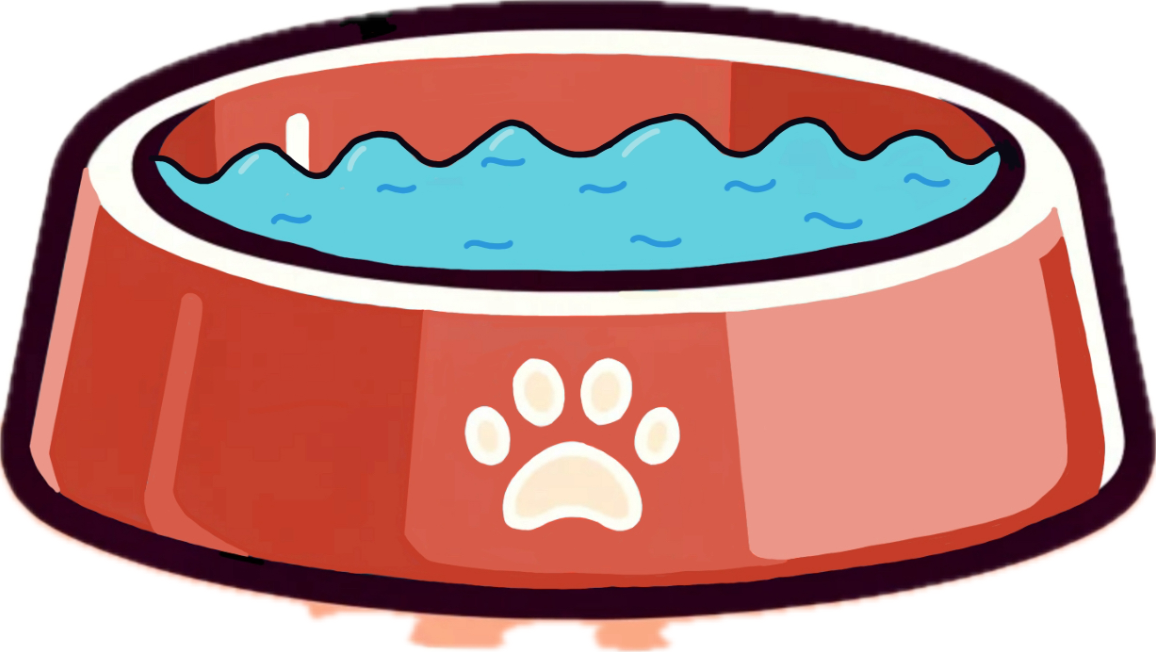
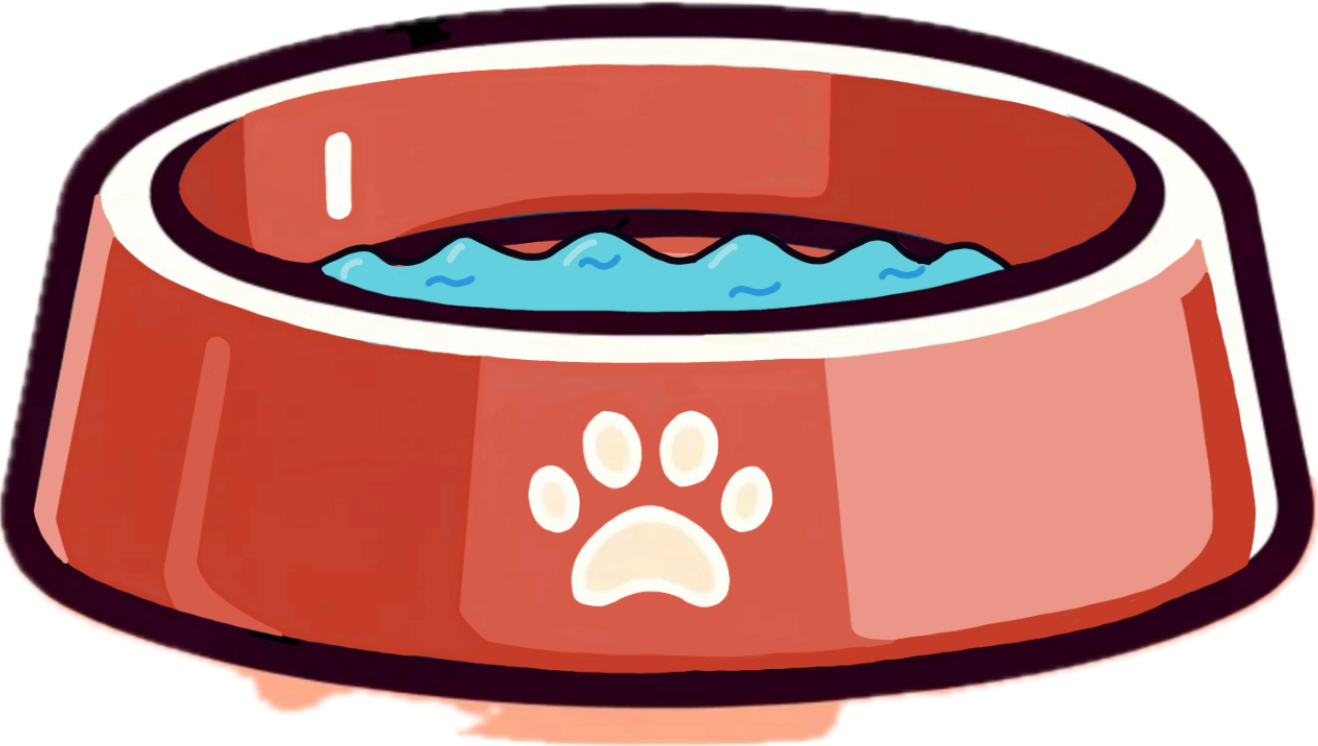
add dropdown menu

diff --git a/build_frontend/src/components/MainPage.js b/build_frontend/src/components/MainPage.js
@@ -1,9 +1,16 @@
-import React from 'react';
+import React, { useState } from 'react'; // Import useState here
 import './MainPage.css';
 import food25 from '../assets/food25.PNG'; // Adjust the path as needed
-import water25 from '../assets/water25.PNG'; // Adjust the path as needed
+import water0 from '../assets/water0.PNG'; // Path to the 0% water level image
+import water25 from '../assets/water25.PNG'; // Path to the 50% water level image
+import water50 from '../assets/water50.PNG'; // Path to the 50% water level image
+import water100 from '../assets/water100.PNG'; // Path to the 100% water level image
+
 
 const MainPage = () => {
+  const [showDropdown, setShowDropdown] = useState(false);
+  const toggleDropdown = () => setShowDropdown(!showDropdown);
+
   const handleDispenseFood = async () => {
     try {
       const response = await fetch('http://localhost:3000/api/dispense-food', {
@@ -38,13 +45,39 @@ const MainPage = () => {
 
   return (
     <div className="main-page">
+       <button className="help-button" onClick={toggleDropdown}>
+        ?
+      </button>
+      <div className={showDropdown ? "dropdown-menu active" : "dropdown-menu"}>
+        <h4>Water Level Indicators</h4>
+        <div className="grid-container">
+          <div className="grid-item">
+            <img src={water0} alt="0% Full" />
+            <div className="grid-text">0% Full</div>
+          </div>
+          <div className="grid-item">
+            <img src={water25} alt="25% Full" />
+            <div className="grid-text">25% Full</div>
+          </div>
+          <div className="grid-item">
+            <img src={water50} alt="50% Full" />
+            <div className="grid-text">50% Full</div>
+          </div>
+          <div className="grid-item">
+            <img src={water100} alt="100% Full" />
+            <div className="grid-text">100% Full</div>
+          </div>
+        </div>
+        <h4>Hover Effect on Bowl</h4>
+        {/* <img src={hoverEffect} alt="Hover effect on bowl" /> */}
+      </div>
       <div className="container">
         <div className="item">
           <img src={food25} alt="Food Bowl" />
           {/* <button onClick={handleDispenseFood}>Dispense Food</button> */}
         </div>
         <div className="item">
-          <img src={water25} alt="Water Bowl" />
+          <img src={water50} alt="Water Bowl" />
           {/* <button onClick={handleDispenseWater}>Dispense Water</button> */}
         </div>
       </div>

diff --git a/build_frontend/src/components/MainPage.css b/build_frontend/src/components/MainPage.css
@@ -92,3 +92,67 @@ html, body {
     box-shadow: 0 2px 2px rgba(0, 0, 0, 0.2); /* Smaller shadow */
     transform: translateY(2px); /* Slightly move button down */
 }
+
+.help-button {
+    position: fixed;
+    top: 20px;
+    right: 40px; /* More inward */
+    background-color: #f8f9fa;
+    border: none;
+    padding: 10px 20px;
+    cursor: pointer;
+    border-radius: 50%; /* Circular button */
+    font-size: 24px;
+    color: #5c67f2; /* Adjusted to better match the theme */
+    box-shadow: 0 2px 8px rgba(0,0,0,0.2); /* Adjusted shadow for depth */
+  }
+  
+  .dropdown-menu {
+    position: fixed;
+    top: 70px;
+    right: 40px;
+    background-color: #f4f1ec; /* Creamy color to match the kitchen */
+    border: 1px solid #deb887; /* Warm border color */
+    border-radius: 8px; /* Smoothed corners */
+    box-shadow: 0 4px 8px rgba(0,0,0,0.1); /* Softer shadow */
+    width: 200px; /* Maintain narrower width */
+    display: none;
+    padding: 15px; /* Increased padding for better text visibility */
+    overflow: auto;
+    font-family: 'CustomFont', sans-serif; /* Custom font for thematic consistency */
+    color: #6f4e37; /* Dark brown text color */
+}
+
+.dropdown-menu.active {
+    display: block;
+}
+
+.dropdown-menu h4, .grid-text {
+    font-size: 40px; /* Unified large font size for all text */
+    color: #8b4513; /* Darker shade for better readability */
+    margin-bottom: 10px; /* Space below headings */
+    margin-top: 10px; /* Space above headings */
+    margin-left: 20px; /* Increased space between image and text for better separation */
+
+}
+
+.grid-container {
+    display: flex;
+    flex-direction: column;
+    align-items: center; /* Center the items horizontally */
+}
+
+.grid-item {
+    display: flex;
+    align-items: center; /* Vertical alignment */
+    justify-content: center; /* Horizontal alignment */
+    margin-bottom: 15px; /* Space between items */
+    width: 100%; /* Full width to align text next to the image */
+}
+
+.grid-item img {
+    width: 80px; /* Image width adjusted */
+    height: auto; /* Maintain aspect ratio */
+}
+
+  
